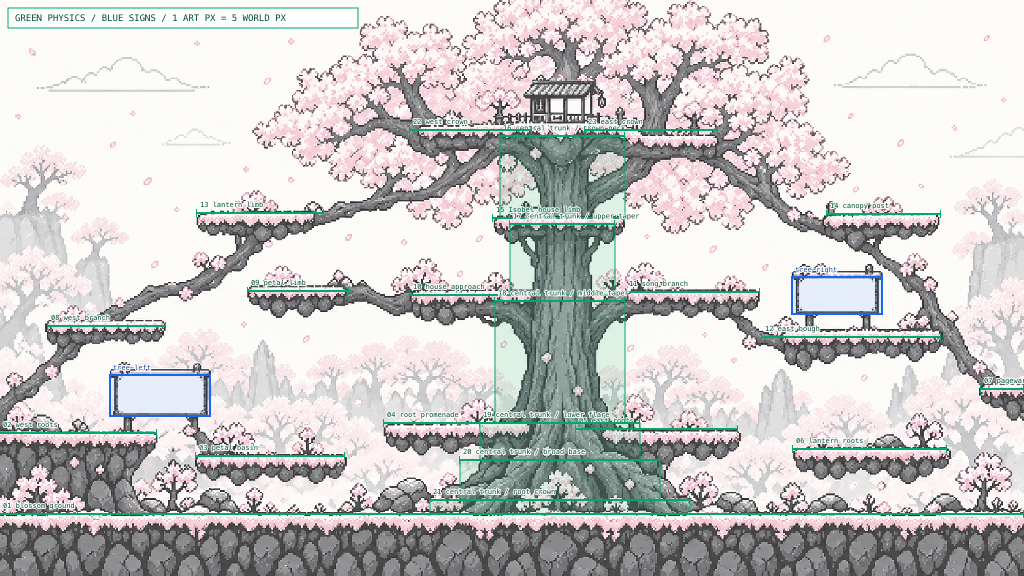
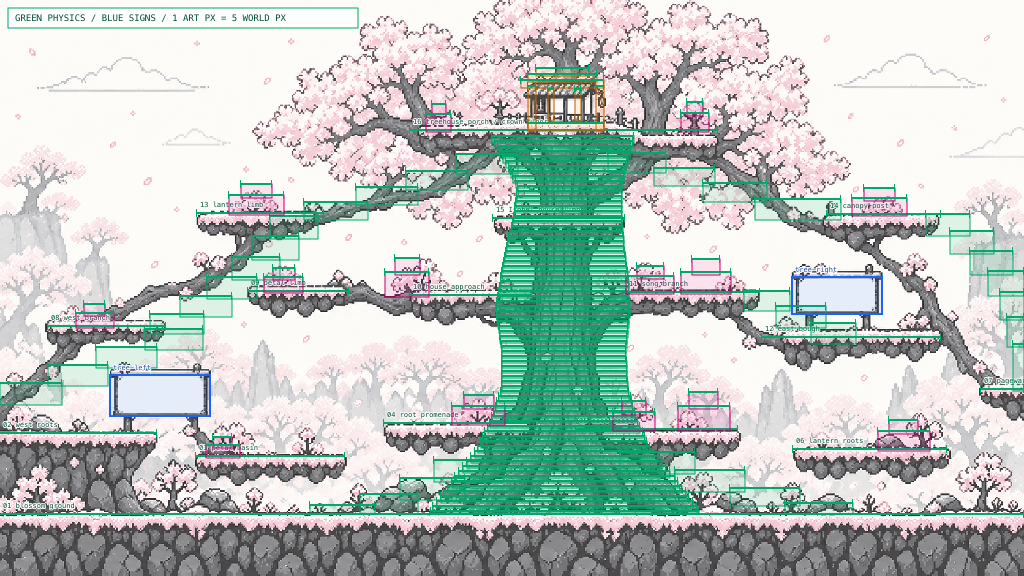
Rebuild sakura tree collision contour

diff --git a/shared/maps/sakuraCollision.js b/shared/maps/sakuraCollision.js
@@ -1,0 +1,102 @@
+const rect = (x, y, w, h, kind, feature, collisionRole) => ({
+  x, y, w, h, kind, feature, collisionRole,
+  structure: 'sakura-tree',
+  anchorable: false
+});
+
+// Control points follow the left/right bark silhouette. Five-pixel steps keep
+// each world-space edge within the spider's diameter, while the two-pixel overlap
+// seals every physics seam.
+const trunkProfile = [
+  [136, 490, 635], [154, 500, 630], [172, 510, 625], [190, 518, 622],
+  [218, 514, 622], [246, 508, 624], [276, 502, 628], [310, 496, 630],
+  [350, 502, 626], [390, 502, 628], [420, 492, 636], [450, 478, 650],
+  [480, 455, 675], [514, 430, 700]
+];
+
+function profileAt(y) {
+  const upperIndex = trunkProfile.findIndex(([pointY]) => pointY >= y);
+  if (upperIndex <= 0) return trunkProfile[Math.max(0, upperIndex)].slice(1);
+  const [y2, left2, right2] = trunkProfile[upperIndex];
+  const [y1, left1, right1] = trunkProfile[upperIndex - 1];
+  const t = (y - y1) / (y2 - y1);
+  return [
+    Math.round(left1 + (left2 - left1) * t),
+    Math.round(right1 + (right2 - right1) * t)
+  ];
+}
+
+const trunkBands = Array.from({ length: Math.ceil((514 - 136) / 5) }, (_, index) => {
+  const y = 136 + index * 5;
+  const h = Math.min(7, 514 - y);
+  const [left, right] = profileAt(Math.min(514, y + h / 2));
+  return rect(
+    left, y, right - left, h, 'trunk',
+    `central trunk contour ${String(index + 1).padStart(2, '0')}`, 'trunk'
+  );
+});
+
+const limbRuns = [
+  // Upper-left bough: lantern limb back into the crown.
+  [304, 202, 64, 18], [356, 187, 62, 18], [406, 171, 62, 19], [456, 154, 62, 20],
+  // Upper-right bough: crown out to the canopy post.
+  [608, 153, 58, 20], [654, 168, 61, 18], [703, 183, 64, 19], [755, 199, 86, 21],
+  // West climbing limb: lower branch to the lantern limb.
+  [150, 314, 54, 20], [180, 296, 52, 21], [207, 277, 50, 22],
+  [232, 257, 48, 23], [252, 236, 47, 24], [270, 216, 48, 23],
+  // West edge root rising into the first branch.
+  [0, 383, 62, 22], [48, 365, 60, 21], [96, 347, 61, 21], [145, 329, 58, 21],
+  // East middle bough flowing down into the poster shelf.
+  [744, 291, 46, 20], [776, 306, 50, 22], [811, 323, 45, 21],
+  // East outer limb descending from the canopy post.
+  [926, 214, 44, 22], [950, 231, 44, 23], [970, 251, 43, 24],
+  [988, 271, 36, 25], [1000, 292, 24, 28], [1007, 317, 17, 30], [1013, 344, 11, 47],
+  // Visible roots spreading into the painted ground.
+  [434, 460, 70, 22], [400, 478, 65, 22], [360, 494, 58, 20], [310, 505, 65, 9],
+  [620, 452, 75, 22], [675, 470, 70, 22], [730, 488, 70, 18], [785, 503, 68, 11]
+].map(([x, y, w, h], index) => rect(
+  x, y, w, h, 'trunk', `painted limb contour ${String(index + 1).padStart(2, '0')}`, 'limb'
+));
+
+const budCluster = (x, top, w, base, name) => {
+  const fullHeight = base - top + 2;
+  const upperX = Math.round(x + w * 0.22);
+  const upperW = Math.round(w * 0.56);
+  const lowerY = Math.round(top + fullHeight * 0.36);
+  return [
+    rect(upperX, top, upperW, lowerY - top + 3, 'bud', `${name} / crown`, 'bud'),
+    rect(x, lowerY, w, base - lowerY + 2, 'bud', `${name} / base`, 'bud')
+  ];
+};
+
+const buds = [
+  [229, 184, 55, 213, 'lantern-limb blossom'],
+  [852, 188, 55, 214, 'canopy-post blossom'],
+  [264, 268, 39, 291, 'petal-limb blossom'],
+  [385, 258, 44, 295, 'house-approach blossom'],
+  [626, 266, 48, 292, 'song-branch blossom'],
+  [681, 259, 50, 292, 'east-song blossom'],
+  [76, 304, 38, 326, 'west-branch blossom'],
+  [452, 395, 53, 423, 'root-promenade blossom'],
+  [613, 401, 42, 429, 'east-root blossom'],
+  [678, 392, 52, 429, 'lower-canopy blossom'],
+  [878, 420, 52, 449, 'lantern-root blossom'],
+  [206, 437, 34, 456, 'petal-basin blossom'],
+  [426, 104, 25, 130, 'treehouse west bud'],
+  [681, 102, 28, 130, 'treehouse east bud']
+].flatMap((args) => budCluster(...args));
+
+// A small enterable shell around the painted house. The center bay remains an
+// open doorway; the overlapping floor meets the continuous crown platform.
+const house = [
+  rect(536, 68, 53, 8, 'house', 'treehouse roof ridge', 'house'),
+  rect(528, 74, 69, 8, 'house', 'treehouse roof cap', 'house'),
+  rect(521, 80, 83, 8, 'house', 'treehouse roof eave', 'house'),
+  rect(528, 86, 8, 45, 'house', 'treehouse west wall', 'house'),
+  rect(596, 86, 8, 45, 'house', 'treehouse east wall', 'house'),
+  rect(548, 89, 6, 32, 'house', 'treehouse west doorpost', 'house'),
+  rect(575, 89, 6, 32, 'house', 'treehouse east doorpost', 'house'),
+  rect(528, 123, 76, 8, 'house', 'treehouse threshold', 'house')
+];
+
+export default [...trunkBands, ...limbRuns, ...buds, ...house];

diff --git a/shared/maps/overworld.js b/shared/maps/overworld.js
@@ -1,3 +1,5 @@
+import sakuraCollision from './sakuraCollision.js';
+
 const WORLD_WIDTH = 15360;
 const WORLD_HEIGHT = 2880;
 const REGION_WIDTH = WORLD_WIDTH / 3;
@@ -17,9 +19,10 @@ const platformPx = (x, y, w, kind, feature, h = 32) => ({
   x: x * ART_SCALE, y: y * ART_SCALE, w: w * ART_SCALE, h, kind, feature,
   artPixel: { x, y, w }
 });
-const trunkPx = (x, y, w, h, feature) => ({
+const collisionPx = ({ x, y, w, h, ...details }) => ({
+  ...details,
   x: x * ART_SCALE, y: y * ART_SCALE, w: w * ART_SCALE, h: h * ART_SCALE,
-  kind: 'trunk', feature, artPixel: { x, y, w, h }
+  artPixel: { x, y, w, h }
 });
 const billboardPx = (id, regionId, x, y, w, h, label) => {
   const region = regions.find(({ id: candidate }) => candidate === regionId);
@@ -62,14 +65,8 @@ const sectionSpecs = {
     platformPx(197, 213, 127, 'branch', 'lantern limb'),
     platformPx(827, 214, 114, 'branch', 'canopy post'),
     platformPx(493, 218, 132, 'branch', 'Isobel house limb'),
-    trunkPx(500, 136.4, 125, 81.6, 'central trunk / crown neck'),
-    trunkPx(510, 224.4, 105, 70.6, 'central trunk / upper taper'),
-    trunkPx(495, 301.4, 130, 121.6, 'central trunk / middle taper'),
-    trunkPx(480, 423, 160, 37, 'central trunk / lower flare'),
-    trunkPx(460, 460, 200, 40, 'central trunk / broad base'),
-    trunkPx(430, 500, 260, 14, 'central trunk / root crown'),
-    platformPx(410, 130, 122, 'branch', 'west crown'),
-    platformPx(585, 130, 133, 'branch', 'east crown')
+    platformPx(410, 130, 308, 'branch', 'treehouse porch / crown floor'),
+    ...sakuraCollision.map(collisionPx)
   ],
   'live-web': [
     platformPx(8, 443, 119, 'page', 'site threshold', 40),
@@ -95,11 +92,12 @@ const sectionSolids = regions.flatMap((region) => sectionSpecs[region.id].map((s
   ...spec,
   id: `${region.id}-${String(index + 1).padStart(2, '0')}`,
   x: region.x + spec.x,
-  region: region.id
+  region: region.id,
+  structure: spec.structure || (region.id === 'blossom-crown' ? 'sakura-tree' : undefined)
 })));
 const floors = [
   { id: 'snowfield-floor', x: 0, y: 2490, w: REGION_WIDTH, h: 390, kind: 'floor', feature: 'snowfield ground', region: 'snowfield', artPixel: { x: 0, y: 498, w: 1024 } },
-  { id: 'blossom-floor', x: REGION_WIDTH, y: 2570, w: REGION_WIDTH, h: 310, kind: 'floor', feature: 'blossom ground', region: 'blossom-crown', artPixel: { x: 0, y: 514, w: 1024 } },
+  { id: 'blossom-floor', x: REGION_WIDTH, y: 2570, w: REGION_WIDTH, h: 310, kind: 'floor', feature: 'blossom ground', region: 'blossom-crown', structure: 'sakura-tree', artPixel: { x: 0, y: 514, w: 1024 } },
   { id: 'live-web-catch', x: REGION_WIDTH * 2, y: 2760, w: REGION_WIDTH, h: 120, kind: 'floor', feature: 'hidden page catch', region: 'live-web', hidden: true }
 ];
 const solids = [...floors, ...sectionSolids];
@@ -129,7 +127,7 @@ function pathAnchors(points) {
   return anchors;
 }
 
-const ledgeAnchors = sectionSolids.flatMap((solid) => {
+const ledgeAnchors = sectionSolids.filter(({ anchorable }) => anchorable !== false).flatMap((solid) => {
   const count = Math.max(1, Math.floor(solid.w / 260));
   return Array.from({ length: count }, (_, index) => ({
     x: Math.round(solid.x + ((index + 1) / (count + 1)) * solid.w),

diff --git a/client/src/world/PaperWorldView.js b/client/src/world/PaperWorldView.js
@@ -8,6 +8,8 @@ const KIND_FILL = Object.freeze({
   snow: WORLD_COLOR.ice,
   branch: WORLD_COLOR.blossom,
   trunk: WORLD_COLOR.blossom,
+  bud: WORLD_COLOR.blossomLight,
+  house: WORLD_COLOR.paper,
   page: WORLD_COLOR.linkWash,
   card: WORLD_COLOR.paper,
   editor: WORLD_COLOR.linkWash
